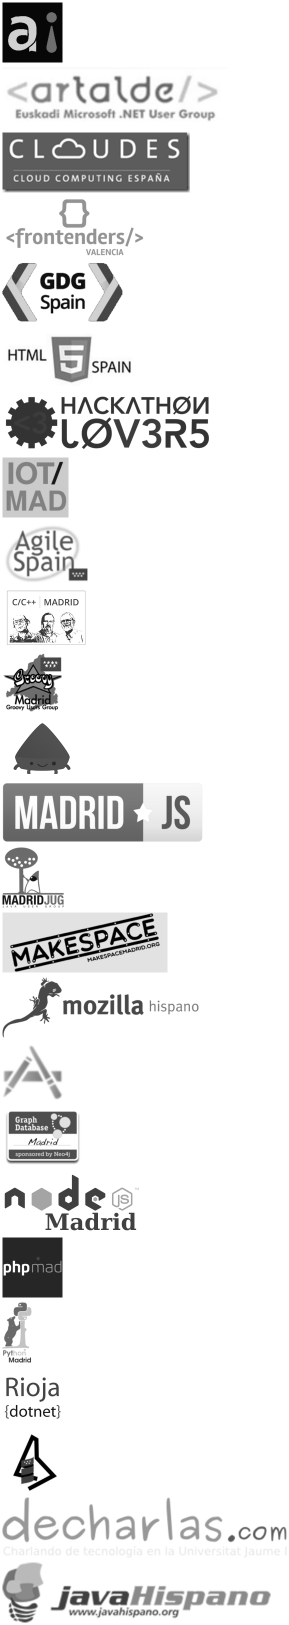
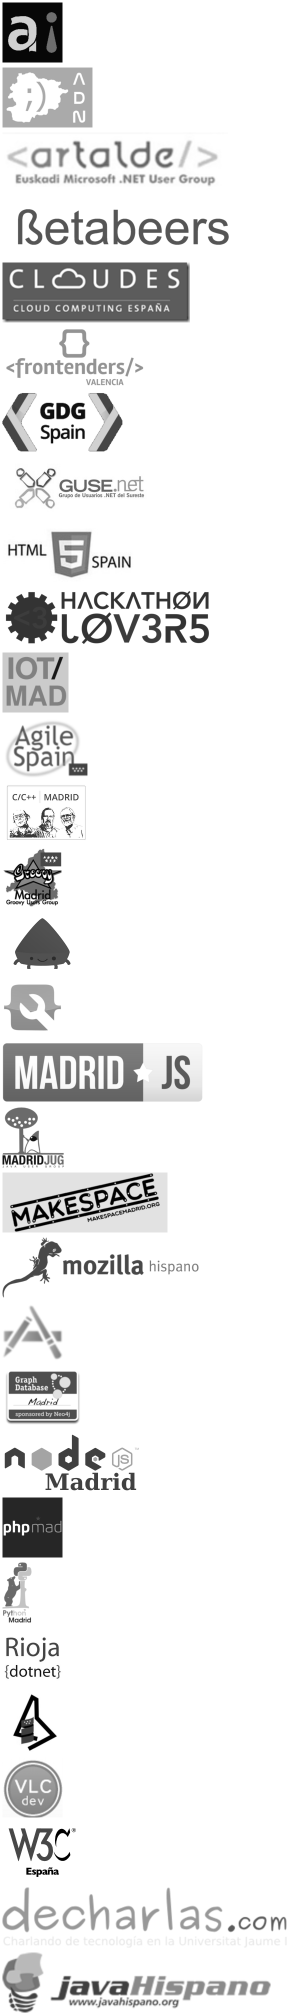
Updated communities

Changed region(s): [[0.0, 0.0, 0.9965, 1.0]]

diff --git a/src/js/communities.js b/src/js/communities.js
@@ -1,1 +1,1 @@
-exports.communities=[{"className":"GDG-Spain","name":"GDG Spain","url":"http://www.gdgspain.org/","logo":"http://www.gdgspain.org/wp-content/uploads/2014/05/logo_with_background.png"},{"className":"RiojaDotNet","name":"RiojaDotNet","url":"http://www.riojadotnet.com","logo":"http://www.riojadotnet.com/Media/Default/images/RiojaDotNet200x200.jpg"},{"className":"Mozilla-Hispano","name":"Mozilla Hispano","url":"http://www.mozilla-hispano.org/","logo":"http://www.mozilla-hispano.org/archivos/marca/mh-banner.png"},{"className":"ScalaMAD","name":"ScalaMAD","url":"http://www.meetup.com/Scala-Programming-Madrid/","logo":"http://photos3.meetupstatic.com/photos/event/d/0/4/a/highres_250073322.jpeg"},{"className":"MadriAgil","name":"MadriAgil","url":"http://www.meetup.com/madriagil/","logo":"http://photos1.meetupstatic.com/photos/event/2/5/7/7/global_26709591.jpeg"},{"className":"Neo4j-Spain","name":"Neo4j Spain","url":"http://www.meetup.com/graphdb-spain/","logo":"http://photos2.meetupstatic.com/photos/event/8/f/a/e/highres_83916782.jpeg"},{"className":"Madrid-C-C--","name":"Madrid C/C++","url":"http://www.meetup.com/Madrid-C-Cpp/","logo":"http://photos2.meetupstatic.com/photos/event/8/c/c/a/highres_368916042.jpeg"},{"className":"Madrid-GUG","name":"Madrid GUG","url":"http://www.meetup.com/madrid-gug/","logo":"http://photos2.meetupstatic.com/photos/event/3/a/5/e/highres_368114942.jpeg"},{"className":"MadridJUG","name":"MadridJUG","url":"https://plus.google.com/communities/100722318999844603412","logo":"http://s3-eu-west-1.amazonaws.com/madrid-jug/logos/logoJUG.ai"},{"className":"javaHispano","name":"javaHispano","url":"http://www.javahispano.org/","logo":"http://www.javahispano.org/storage/imagenes/logoJavaHispano.png?__SQUARESPACE_CACHEVERSION=1318192706703"},{"className":"NSCoders-Night-Madrid","name":"NSCoders Night Madrid","url":"http://nscoder-mad.tumblr.com/","logo":"http://photos1.meetupstatic.com/photos/event/2/5/a/highres_233640602.jpeg"},{"className":"MadridJS","name":"MadridJS","url":"http://meetup.com/madridjs","logo":"http://dl.dropboxusercontent.com/s/3e442xhphhnl9t2/madridjs-new-high.png?dl=1&token_hash=AAGqWKMe39SaIDNUjp8tkF8NIGMePAZuPEGRbw7nBIomHw&expiry=1401202512"},{"className":"decharlas","name":"decharlas","url":"http://decharlas.com","logo":"http://decharlas.uji.es/images/logo-decharlas.png"},{"className":"Python-Madrid","name":"Python Madrid","url":"http://www.python-madrid.es/","logo":"http://s3-eu-west-1.amazonaws.com/niwi-web/user/python-madrid-logo-bkgrd-white.svg"},{"className":"Functional-Programming-Madrid","name":"Functional Programming Madrid","url":"http://www.meetup.com/FP-Madrid/","logo":""},{"className":"Madrid-rb","name":"Madrid.rb","url":"https://madridrb.jottit.com/","logo":"http://pbs.twimg.com/media/Bj1KPKOCYAAfKi-.png"},{"className":"Cloudes","name":"Cloudes","url":"https://www.linkedin.com/groups/Grupo-usuarios-Cloud-Computing-Espa%C3%B1a-3529148?trk=my_groups-b-grp-v","logo":"http://www.ciin.es/imagenes/e75d18f6baf9_B7D9/LogoCloudes_thumb.png"},{"className":"Artalde-NET","name":"Artalde.NET","url":"http://geeks.ms/blogs/artalde/","logo":"http://www.microsoft.com/spain/msdn/comunidades/images/artalde.png"},{"className":"Geeks-ms","name":"Geeks.ms","url":"http://geeks.ms","logo":""},{"className":"Internet-of-Things","name":"Internet of Things","url":"http://www.meetup.com/iotmadrid","logo":"http://pbs.twimg.com/profile_images/1649965531/logotwitteriotmadrid.png"},{"className":"Makespace-Madrid","name":"Makespace Madrid","url":"http://www.meetup.com/makespacemadrid","logo":"http://makespacemadrid.org/wp-content/uploads/2013/04/makespacemadrid_w2.png"},{"className":"Hackathon-Lovers","name":"Hackathon Lovers","url":"http://hackathonlovers.com/","logo":"http://hackathonlovers.com/img/hackathon-lovers-logo.png"},{"className":"HTML5-Spain","name":"HTML5 Spain","url":"http://www.meetup.com/HTML5-Spain/","logo":"http://photos1.meetupstatic.com/photos/event/4/1/a/c/global_219796812.jpeg"},{"className":"Frontenders-Valencia","name":"Frontenders Valencia","url":"http://valencia.frontenders.me/","logo":"http://valencia.frontenders.me/img/logo_frontenders.png"},{"className":"PHP-Valencia","name":"PHP Valencia","url":"https://groups.google.com/forum/#!forum/php-valencia","logo":""},{"className":"Node-js-Madrid","name":"Node.js Madrid","url":"http://www.meetup.com/Node-js-Madrid/","logo":"http://files.meetup.com/9727852/Node.js-Madrid.svg"},{"className":"PHPMad","name":"PHPMad","url":"http://www.meetup.com/PHPMad/","logo":"http://lh3.googleusercontent.com/-4i041NVBgzE/AAAAAAAAAAI/AAAAAAAAABE/2js8DbQtacM/photo.jpg"},{"className":"Accesibilidad-Spain","name":"Accesibilidad Spain","url":"http://www.meetup.com/Accesibilidad-Spain/","logo":"http://photos3.meetupstatic.com/photos/event/4/7/2/4/global_295518212.jpeg"}];
+exports.communities=[{"className":"GDG-Spain","name":"GDG Spain","url":"http://www.gdgspain.org/","logo":"http://www.gdgspain.org/wp-content/uploads/2014/05/logo_with_background.png"},{"className":"RiojaDotNet","name":"RiojaDotNet","url":"http://www.riojadotnet.com","logo":"http://www.riojadotnet.com/Media/Default/images/RiojaDotNet200x200.jpg"},{"className":"Mozilla-Hispano","name":"Mozilla Hispano","url":"http://www.mozilla-hispano.org/","logo":"http://www.mozilla-hispano.org/archivos/marca/mh-banner.png"},{"className":"ScalaMAD","name":"ScalaMAD","url":"http://www.meetup.com/Scala-Programming-Madrid/","logo":"http://photos3.meetupstatic.com/photos/event/d/0/4/a/highres_250073322.jpeg"},{"className":"MadriAgil","name":"MadriAgil","url":"http://www.meetup.com/madriagil/","logo":"http://photos1.meetupstatic.com/photos/event/2/5/7/7/global_26709591.jpeg"},{"className":"Neo4j-Spain","name":"Neo4j Spain","url":"http://www.meetup.com/graphdb-spain/","logo":"http://photos2.meetupstatic.com/photos/event/8/f/a/e/highres_83916782.jpeg"},{"className":"Madrid-C-C--","name":"Madrid C/C++","url":"http://www.meetup.com/Madrid-C-Cpp/","logo":"http://photos2.meetupstatic.com/photos/event/8/c/c/a/highres_368916042.jpeg"},{"className":"Madrid-GUG","name":"Madrid GUG","url":"http://www.meetup.com/madrid-gug/","logo":"http://photos2.meetupstatic.com/photos/event/3/a/5/e/highres_368114942.jpeg"},{"className":"MadridJUG","name":"MadridJUG","url":"https://plus.google.com/communities/100722318999844603412","logo":"http://s3-eu-west-1.amazonaws.com/madrid-jug/logos/logoJUG.ai"},{"className":"javaHispano","name":"javaHispano","url":"http://www.javahispano.org/","logo":"http://www.javahispano.org/storage/imagenes/logoJavaHispano.png?__SQUARESPACE_CACHEVERSION=1318192706703"},{"className":"NSCoders-Night-Madrid","name":"NSCoders Night Madrid","url":"http://nscoder-mad.tumblr.com/","logo":"http://photos1.meetupstatic.com/photos/event/2/5/a/highres_233640602.jpeg"},{"className":"MadridJS","name":"MadridJS","url":"http://meetup.com/madridjs","logo":"http://dl.dropboxusercontent.com/s/3e442xhphhnl9t2/madridjs-new-high.png?dl=1&token_hash=AAGqWKMe39SaIDNUjp8tkF8NIGMePAZuPEGRbw7nBIomHw&expiry=1401202512"},{"className":"decharlas","name":"decharlas","url":"http://decharlas.com","logo":"http://decharlas.uji.es/images/logo-decharlas.png"},{"className":"Python-Madrid","name":"Python Madrid","url":"http://www.python-madrid.es/","logo":"http://s3-eu-west-1.amazonaws.com/niwi-web/user/python-madrid-logo-bkgrd-white.svg"},{"className":"Functional-Programming-Madrid","name":"Functional Programming Madrid","url":"http://www.meetup.com/FP-Madrid/","logo":""},{"className":"Madrid-rb","name":"Madrid.rb","url":"https://madridrb.jottit.com/","logo":"http://pbs.twimg.com/media/Bj1KPKOCYAAfKi-.png"},{"className":"Cloudes","name":"Cloudes","url":"https://www.linkedin.com/groups/Grupo-usuarios-Cloud-Computing-Espa%C3%B1a-3529148?trk=my_groups-b-grp-v","logo":"http://www.ciin.es/imagenes/e75d18f6baf9_B7D9/LogoCloudes_thumb.png"},{"className":"Artalde-NET","name":"Artalde.NET","url":"http://geeks.ms/blogs/artalde/","logo":"http://www.microsoft.com/spain/msdn/comunidades/images/artalde.png"},{"className":"Geeks-ms","name":"Geeks.ms","url":"http://geeks.ms","logo":""},{"className":"Internet-of-Things","name":"Internet of Things","url":"http://www.meetup.com/iotmadrid","logo":"http://pbs.twimg.com/profile_images/1649965531/logotwitteriotmadrid.png"},{"className":"Makespace-Madrid","name":"Makespace Madrid","url":"http://www.meetup.com/makespacemadrid","logo":"http://makespacemadrid.org/wp-content/uploads/2013/04/makespacemadrid_w2.png"},{"className":"Hackathon-Lovers","name":"Hackathon Lovers","url":"http://hackathonlovers.com/","logo":"http://hackathonlovers.com/img/hackathon-lovers-logo.png"},{"className":"HTML5-Spain","name":"HTML5 Spain","url":"http://www.meetup.com/HTML5-Spain/","logo":"http://photos1.meetupstatic.com/photos/event/4/1/a/c/global_219796812.jpeg"},{"className":"Frontenders-Valencia","name":"Frontenders Valencia","url":"http://valencia.frontenders.me/","logo":"http://valencia.frontenders.me/img/logo_frontenders.png"},{"className":"PHP-Valencia","name":"PHP Valencia","url":"https://groups.google.com/forum/#!forum/php-valencia","logo":""},{"className":"Node-js-Madrid","name":"Node.js Madrid","url":"http://www.meetup.com/Node-js-Madrid/","logo":"http://files.meetup.com/9727852/Node.js-Madrid.svg"},{"className":"PHPMad","name":"PHPMad","url":"http://www.meetup.com/PHPMad/","logo":"http://lh3.googleusercontent.com/-4i041NVBgzE/AAAAAAAAAAI/AAAAAAAAABE/2js8DbQtacM/photo.jpg"},{"className":"Accesibilidad-Spain","name":"Accesibilidad Spain","url":"http://www.meetup.com/Accesibilidad-Spain/","logo":"http://photos3.meetupstatic.com/photos/event/4/7/2/4/global_295518212.jpeg"},{"className":"GUSENet","name":"GUSENet","url":"http://gusenet.org/","logo":"http://gusenet.org/images/logo_guse.jpg"},{"className":"VLCDev","name":"VLCDev","url":"http://www.linkedin.com/groups/VLCdev-3918814","logo":"http://pbs.twimg.com/profile_images/1374480824/twvaldev_400x400.png"},{"className":"AndorraDotNet","name":"AndorraDotNet","url":"http://andorradotnet.com","logo":"http://andorradotnet.files.wordpress.com/2012/06/cropped-logo01_240.png"},{"className":"Betabeers","name":"Betabeers","url":"http://www.betabeers.com","logo":"http://betabeers.com/uploads/blog/betabeers-red-transparent.png"},{"className":"MadridDevops","name":"MadridDevops","url":"http://madrid.devops.es","logo":"http://raw.githubusercontent.com/madrid-devops/branding/master/Three%20Inks%20Logo%20(Transparent%20Background).png"},{"className":"W3C-Spain","name":"W3C Spain","url":"http://www.w3c.es/","logo":"http://docs.google.com/uc?export=download&id=0B7itBYzP88oNN01QNGNOeFc4X2c"}];

diff --git a/src/scss/_sprite.scss b/src/scss/_sprite.scss
@@ -1,28 +1,34 @@
 $Accesibilidad-Spain: -2px -2px 60px 60px;
-$Artalde-NET: -2px -67px 225px 60px;
-$Cloudes: -2px -132px 187px 60px;
-$Frontenders-Valencia: -2px -197px 144px 60px;
-$GDG-Spain: -2px -262px 121px 60px;
-$HTML5-Spain: -2px -327px 133px 60px;
-$Hackathon-Lovers: -2px -392px 210px 60px;
-$Internet-of-Things: -2px -457px 66px 60px;
-$MadriAgil: -2px -522px 86px 60px;
-$Madrid-C-C--: -2px -587px 87px 60px;
-$Madrid-GUG: -2px -652px 60px 60px;
-$Madrid-rb: -2px -717px 79px 60px;
-$MadridJS: -2px -782px 200px 60px;
-$MadridJUG: -2px -847px 61px 60px;
-$Makespace-Madrid: -2px -912px 165px 60px;
-$Mozilla-Hispano: -2px -977px 196px 60px;
-$NSCoders-Night-Madrid: -2px -1042px 60px 60px;
-$Neo4j-Spain: -2px -1107px 80px 60px;
-$Node-js-Madrid: -2px -1172px 138px 60px;
-$PHPMad: -2px -1237px 60px 60px;
-$Python-Madrid: -2px -1302px 29px 60px;
-$RiojaDotNet: -2px -1367px 60px 60px;
-$ScalaMAD: -2px -1432px 60px 60px;
-$decharlas: -2px -1497px 284px 60px;
-$javaHispano: -2px -1562px 268px 60px;
+$AndorraDotNet: -2px -67px 90px 60px;
+$Artalde-NET: -2px -132px 225px 60px;
+$Betabeers: -2px -197px 240px 60px;
+$Cloudes: -2px -262px 187px 60px;
+$Frontenders-Valencia: -2px -327px 144px 60px;
+$GDG-Spain: -2px -392px 121px 60px;
+$GUSENet: -2px -457px 158px 60px;
+$HTML5-Spain: -2px -522px 133px 60px;
+$Hackathon-Lovers: -2px -587px 210px 60px;
+$Internet-of-Things: -2px -652px 66px 60px;
+$MadriAgil: -2px -717px 86px 60px;
+$Madrid-C-C--: -2px -782px 87px 60px;
+$Madrid-GUG: -2px -847px 60px 60px;
+$Madrid-rb: -2px -912px 79px 60px;
+$MadridDevops: -2px -977px 60px 60px;
+$MadridJS: -2px -1042px 200px 60px;
+$MadridJUG: -2px -1107px 61px 60px;
+$Makespace-Madrid: -2px -1172px 165px 60px;
+$Mozilla-Hispano: -2px -1237px 196px 60px;
+$NSCoders-Night-Madrid: -2px -1302px 60px 60px;
+$Neo4j-Spain: -2px -1367px 80px 60px;
+$Node-js-Madrid: -2px -1432px 138px 60px;
+$PHPMad: -2px -1497px 60px 60px;
+$Python-Madrid: -2px -1562px 29px 60px;
+$RiojaDotNet: -2px -1627px 60px 60px;
+$ScalaMAD: -2px -1692px 60px 60px;
+$VLCDev: -2px -1757px 60px 60px;
+$W3C-Spain: -2px -1822px 79px 60px;
+$decharlas: -2px -1887px 284px 60px;
+$javaHispano: -2px -1952px 268px 60px;
 
 @mixin sprite-width($sprite) {
   width: nth($sprite, 3);
@@ -54,6 +60,6 @@ $javaHispano: -2px -1562px 268px 60px;
 @media (min--moz-device-pixel-ratio: 1.5), (-o-min-device-pixel-ratio: 3/2), (-webkit-min-device-pixel-ratio: 1.5), (min-device-pixel-ratio: 1.5), (min-resolution: 1.5dppx) {
   .community {
     background-image: url('/img/communities/communities-x2.png');
-    background-size: 289px 1625px;
+    background-size: 289px 2015px;
   }
 }

diff --git a/src/_includes/communities.html b/src/_includes/communities.html
@@ -27,3 +27,9 @@
 <a href="http://www.meetup.com/Node-js-Madrid/" class="community Node-js-Madrid" title="Node.js Madrid">Node.js Madrid</a> 
 <a href="http://www.meetup.com/PHPMad/" class="community PHPMad" title="PHPMad">PHPMad</a> 
 <a href="http://www.meetup.com/Accesibilidad-Spain/" class="community Accesibilidad-Spain" title="Accesibilidad Spain">Accesibilidad Spain</a> 
+<a href="http://gusenet.org/" class="community GUSENet" title="GUSENet">GUSENet</a> 
+<a href="http://www.linkedin.com/groups/VLCdev-3918814" class="community VLCDev" title="VLCDev">VLCDev</a> 
+<a href="http://andorradotnet.com" class="community AndorraDotNet" title="AndorraDotNet">AndorraDotNet</a> 
+<a href="http://www.betabeers.com" class="community Betabeers" title="Betabeers">Betabeers</a> 
+<a href="http://madrid.devops.es" class="community MadridDevops" title="MadridDevops">MadridDevops</a> 
+<a href="http://www.w3c.es/" class="community W3C-Spain" title="W3C Spain">W3C Spain</a> 

diff --git a/src/scss/communities.scss b/src/scss/communities.scss
@@ -29,3 +29,9 @@
 .Node-js-Madrid { @include sprite($Node-js-Madrid); }
 .PHPMad { @include sprite($PHPMad); }
 .Accesibilidad-Spain { @include sprite($Accesibilidad-Spain); }
+.GUSENet { @include sprite($GUSENet); }
+.VLCDev { @include sprite($VLCDev); }
+.AndorraDotNet { @include sprite($AndorraDotNet); }
+.Betabeers { @include sprite($Betabeers); }
+.MadridDevops { @include sprite($MadridDevops); }
+.W3C-Spain { @include sprite($W3C-Spain); }
